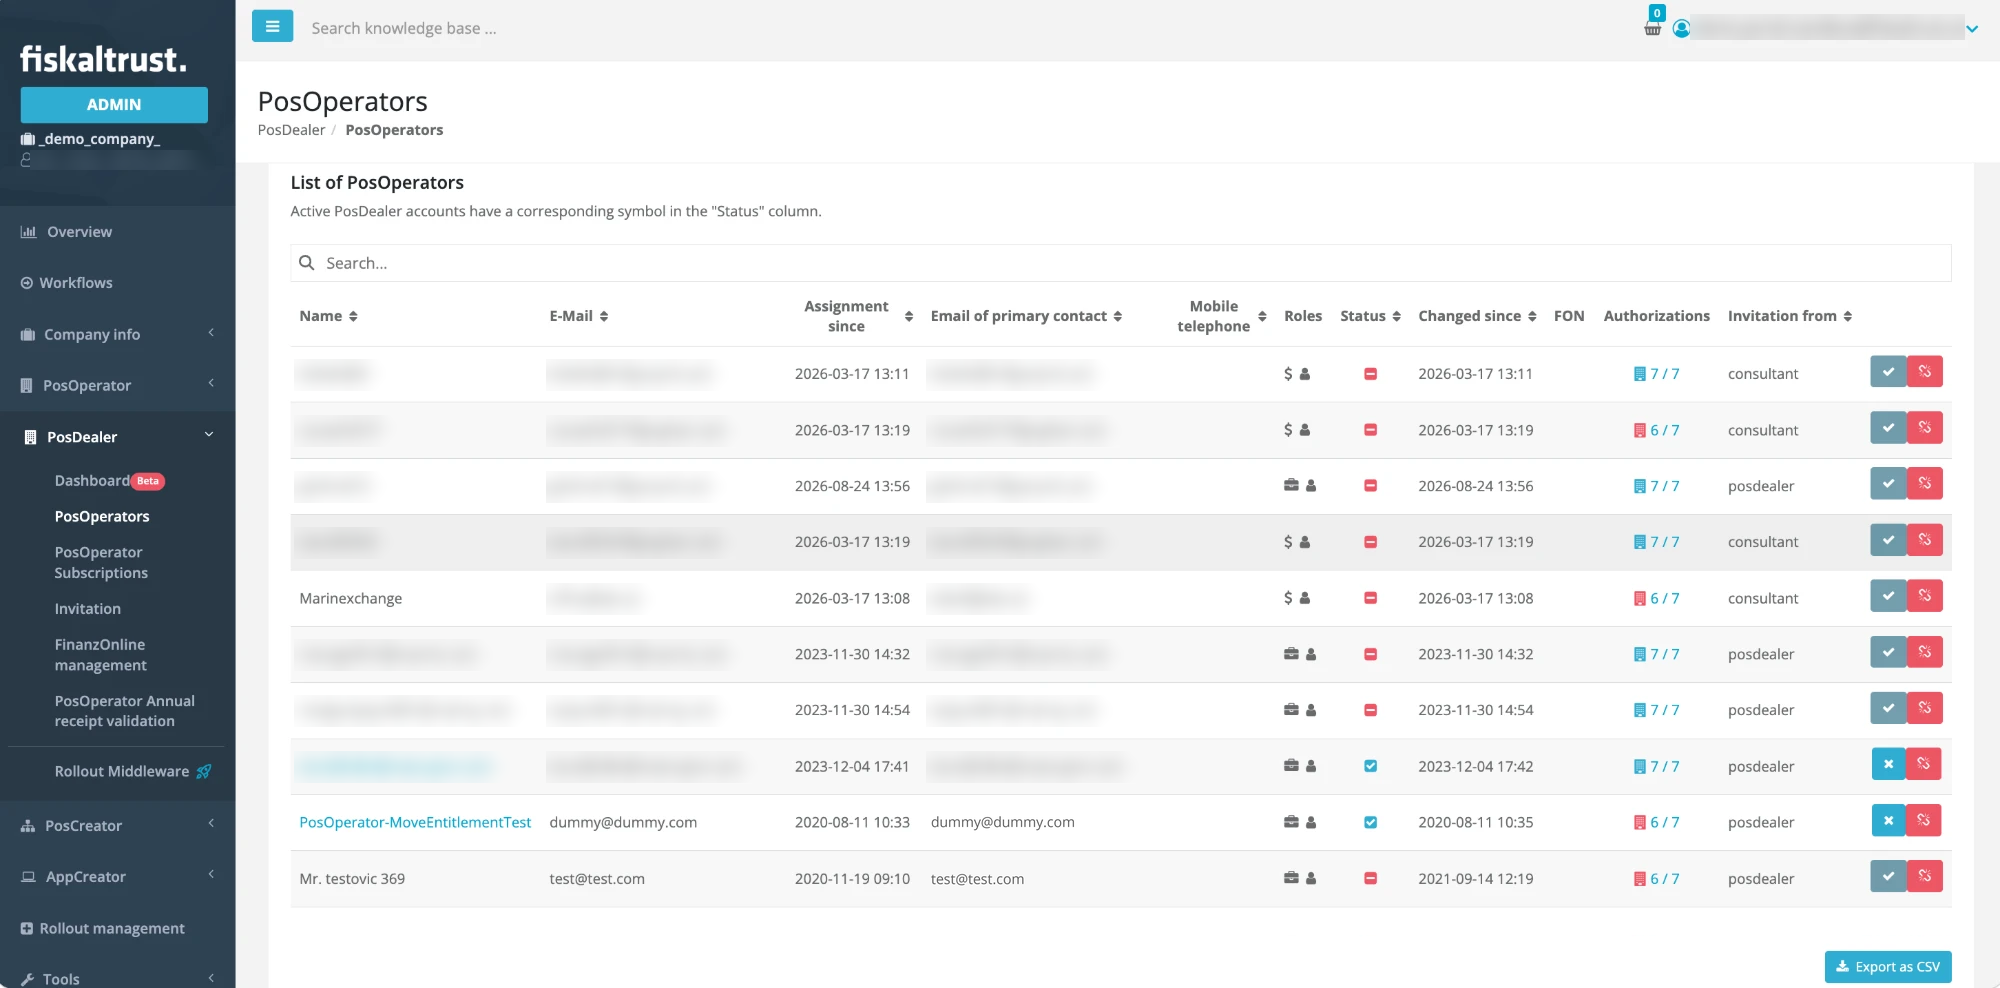
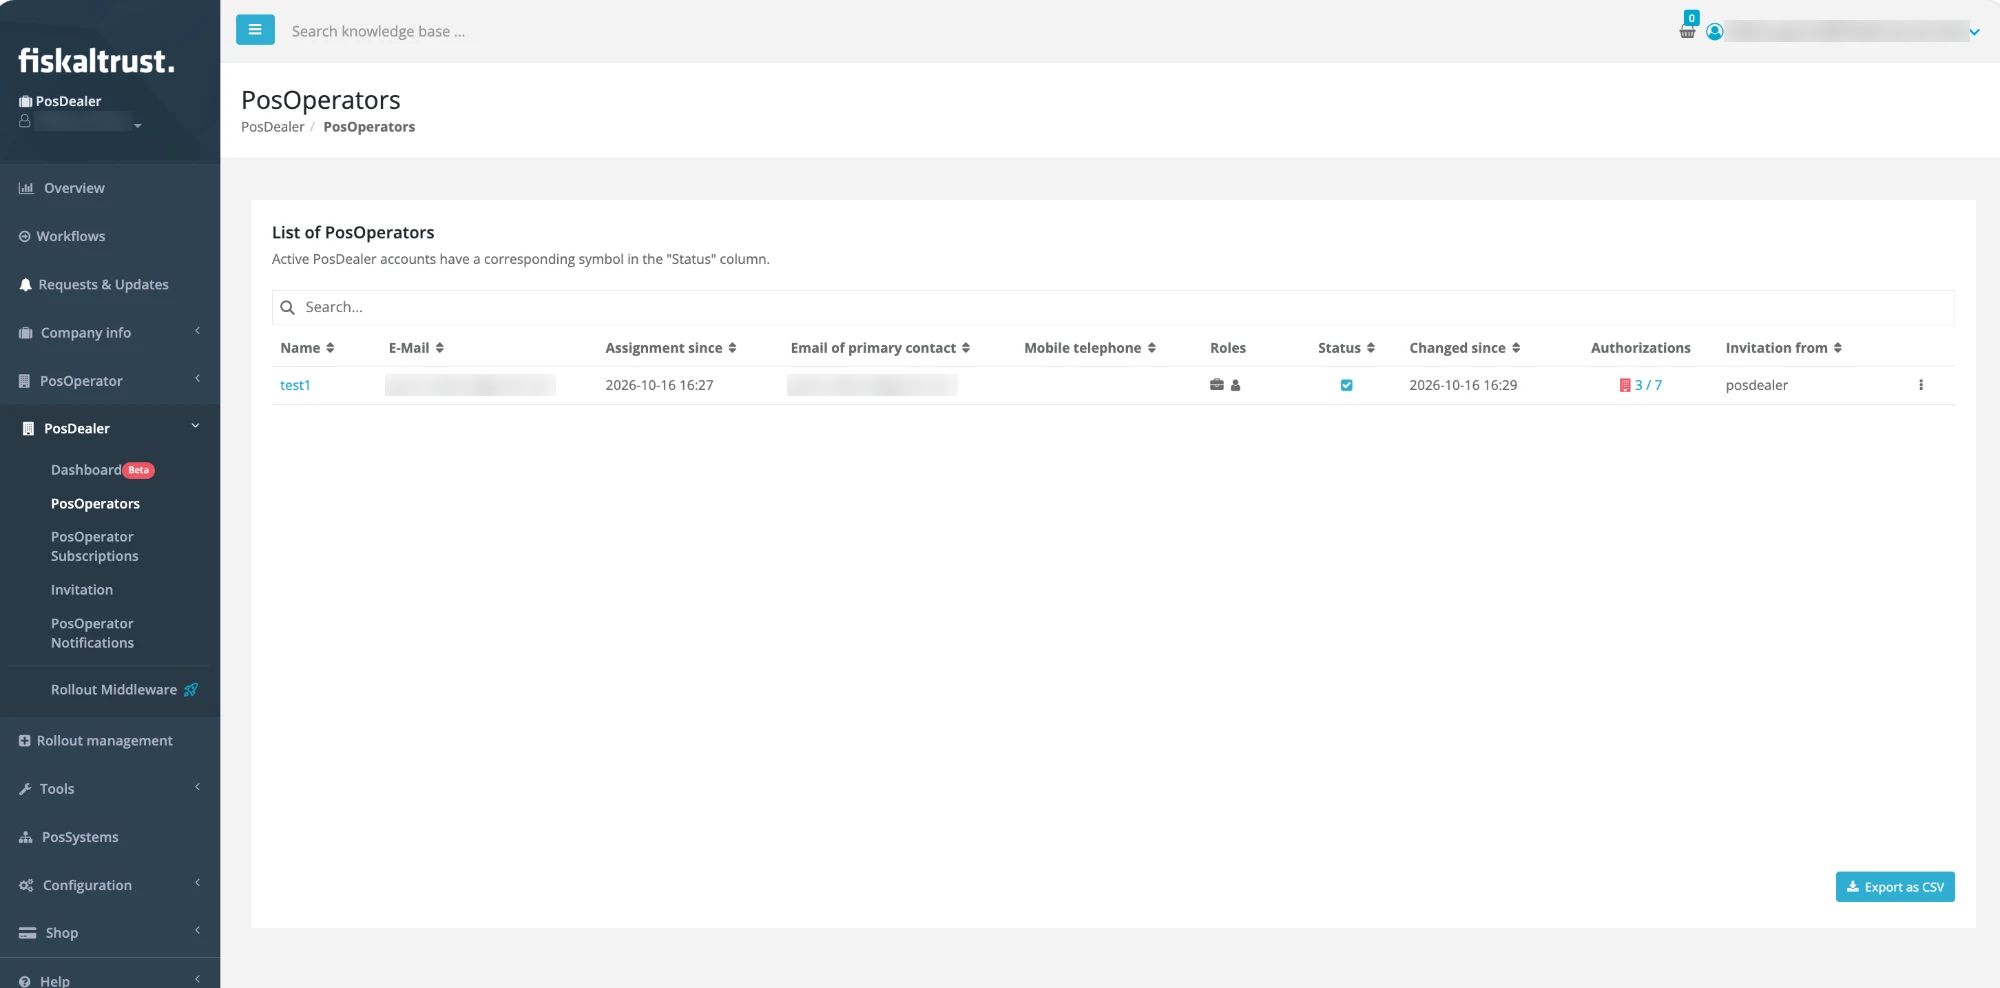
Management Portal and Surrogating: Figure 1 from a non-admin PosDealer account, alt texts updated

diff --git a/posdealers/business-basics/management-portal.md b/posdealers/business-basics/management-portal.md
@@ -14,7 +14,7 @@ After reading this, you can explain the tasks performed in the fiskaltrust.Porta
 
 The fiskaltrust.Portal is the central **management dashboard** for your fiskaltrust account and services. It covers your account and company data, PosOperator associations, configuration and rollout of your Middleware instances, and orders for products and services.
 
-![fiskaltrust.Portal Overview page: the sidebar menu (including Overview, Company info, PosOperator, PosDealer, Rollout management, Tools, PosSystems, Configuration and Shop), the Master data of User and Master data of company panels, and the user menu at the top right](./images/management-dashboard.png)
+![fiskaltrust.Portal Overview page of a PosDealer account: the sidebar menu with Overview, Workflows, Requests and Updates, Company info, PosOperator, PosDealer, Rollout management, Tools, PosSystems, Configuration, Shop and Help, the Master data of User and Master data of company panels, and the user menu](./images/management-dashboard.png)
 
 *Figure 1. The `Overview` page of the fiskaltrust.Portal with the sidebar menu, the user and company master data, and the user menu at the top right.*
 

diff --git a/posdealers/getting-started/operator-onboarding/surrogating.md b/posdealers/getting-started/operator-onboarding/surrogating.md
@@ -32,7 +32,7 @@ To get an overview of active and inactive PosOperator accounts, for example to c
 
 ## Switch to a PosOperator account
 
-![PosOperators page in the fiskaltrust.Portal with the PosDealer menu opened in the left sidebar, the search field and the list of PosOperators: names of active accounts are links, names of inactive accounts are plain text, and the Export as CSV button](images/posoperators-list.png)
+![PosOperators page in the fiskaltrust.Portal with the PosDealer menu opened in the left sidebar, the search field, the list of PosOperators with one active account whose name is a link, and the Export as CSV button](images/posoperators-list.png)
 
 *Figure 1. The `PosOperators` page with the list of PosOperators.*
 
